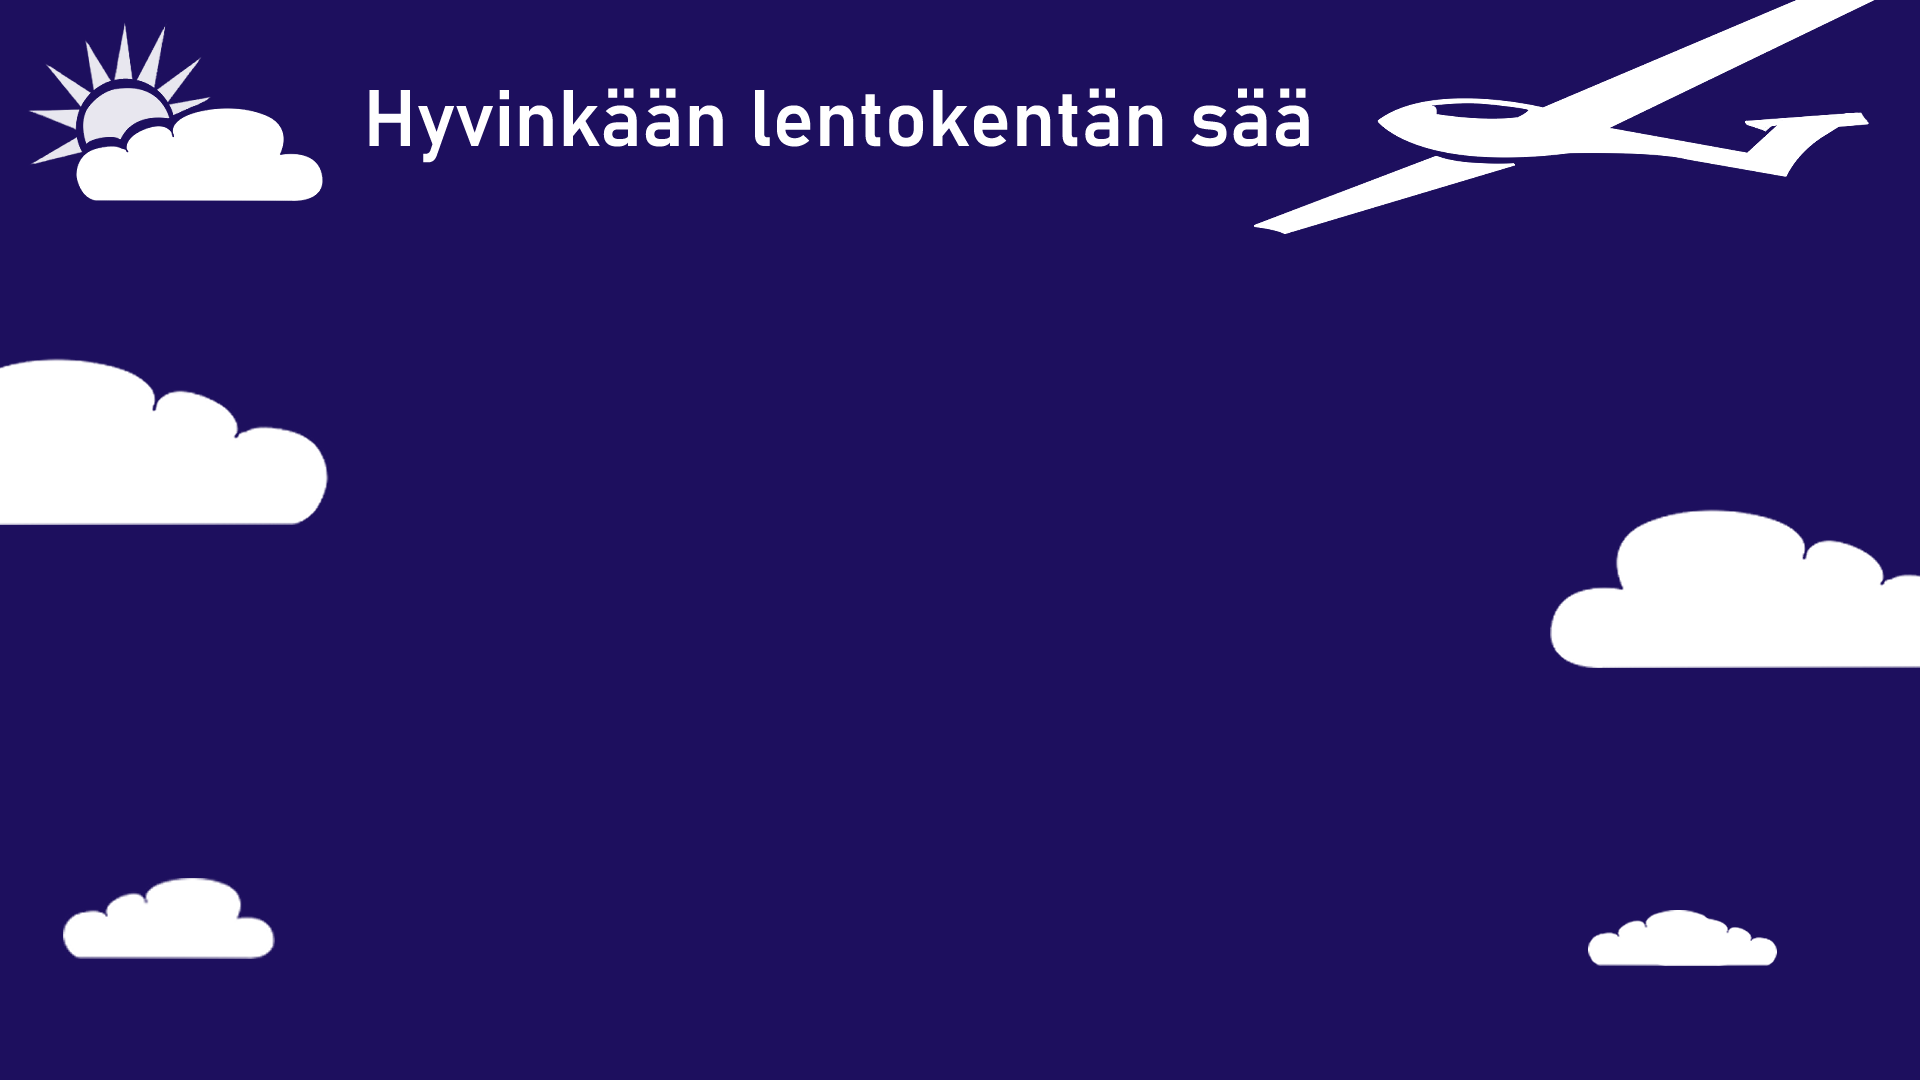
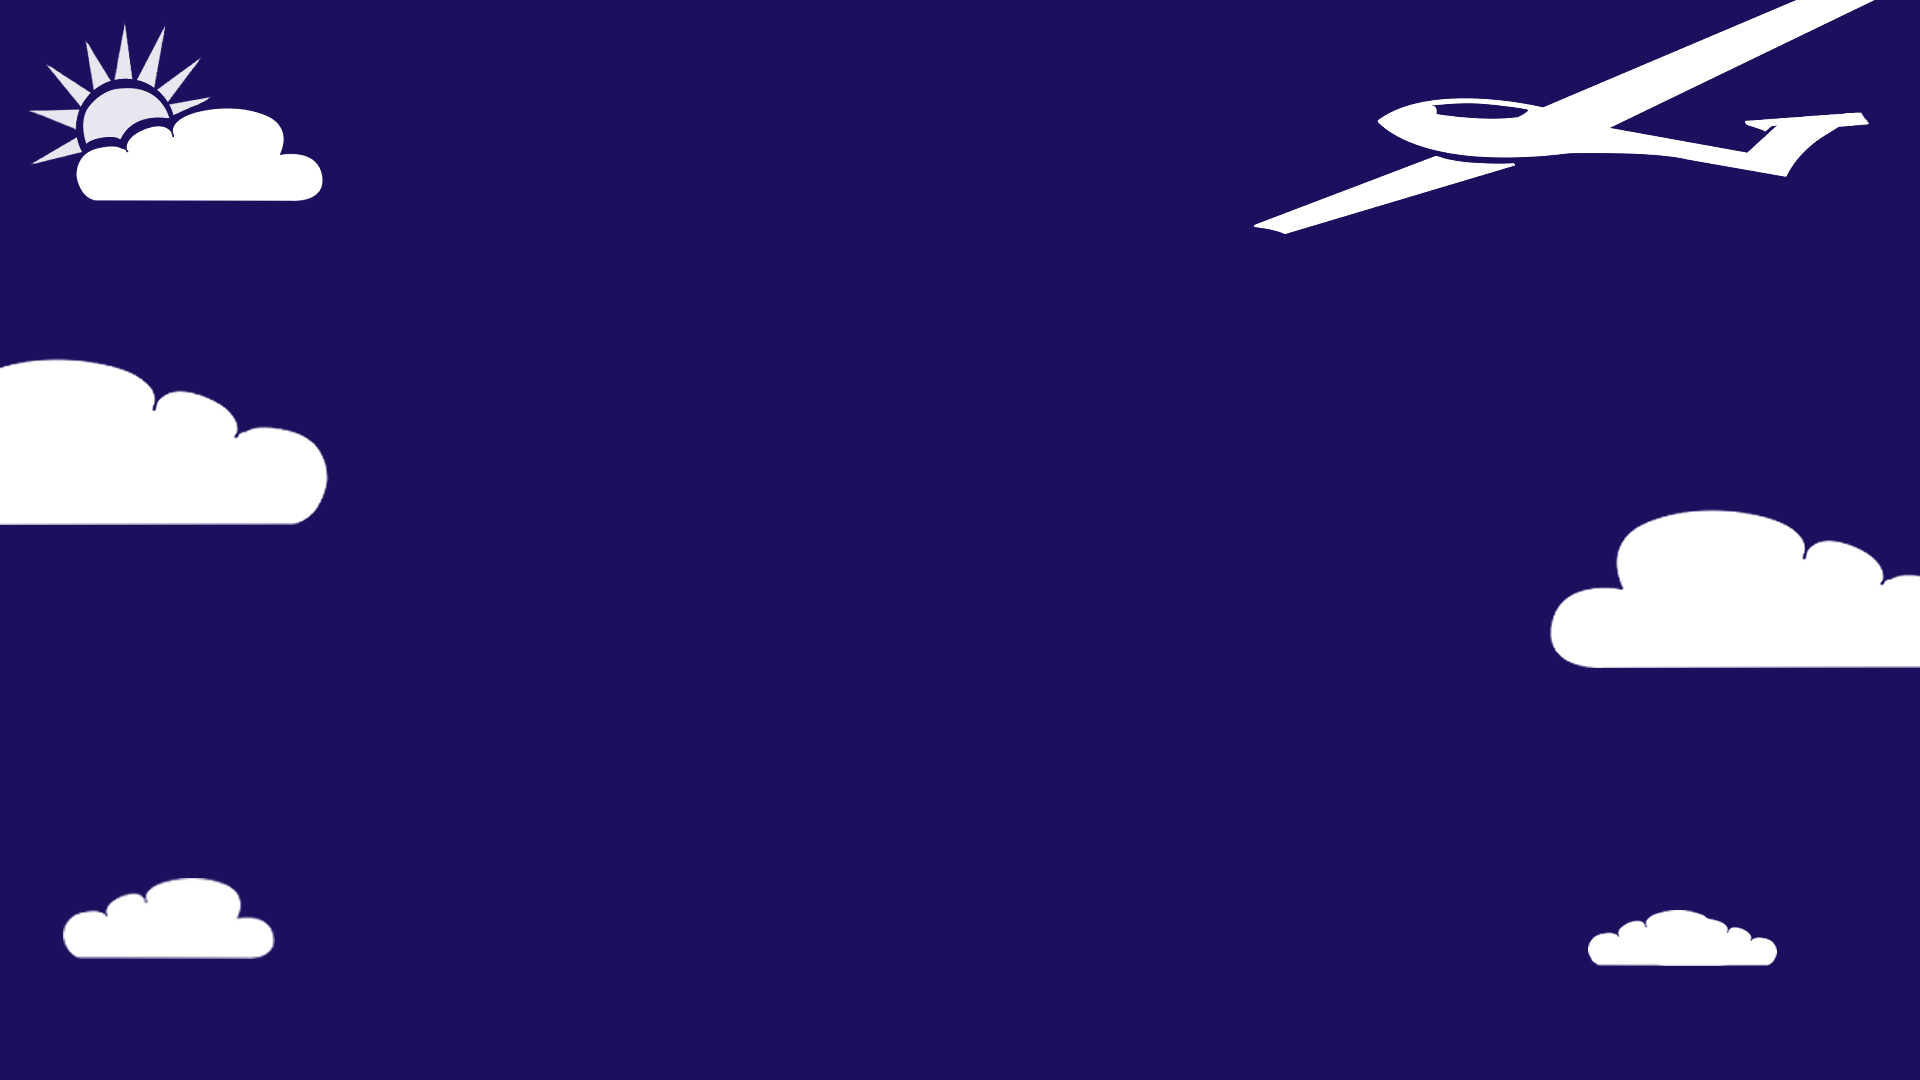
Separated title and background. Title is now responsive.

Changed region(s): [[0.1875, 0.0611, 0.6875, 0.1528]]

diff --git a/src/App.jsx b/src/App.jsx
@@ -90,8 +90,10 @@ function App() {
   return (
     <>
       <header>
+        <h1>
+          <img src="src/Hyvinkaan_lentokentan_saa_title.png" class="titleResponsive" alt="Title of weatherapp" />
+        </h1>
       </header>
-      <div class="backgroundTitleDimension"></div>
       <main>
         <CurrentWeatherCard currentWeather={currentWeather} loading={loading} error={error} />
         <HistoryCard weatherData={weatherData} loading={loading} error={error} />

diff --git a/src/App.css b/src/App.css
@@ -27,6 +27,11 @@ body {
 
 /*Responsive background image.*/
 
+.titleResponsive {
+  max-width: 100%;
+  height: auto;
+}
+
 .backgroundResponsive {
   max-width: 100%;
   height: auto;
@@ -43,8 +48,8 @@ header {
 }
 
 header h1 {
-  background-color: whitesmoke;
-  padding: 25px;
+  background-color: #110067;
+  padding: 10px;
   border-radius: 5px;
 }
 

diff --git a/index.html b/index.html
@@ -7,7 +7,7 @@
   <title>Weather App</title>
 </head>
 
-<body class="backgroundResponsive">
+<body>
   <div id="root"></div>
   <script type="module" src="/src/main.jsx"></script>
 </body>
